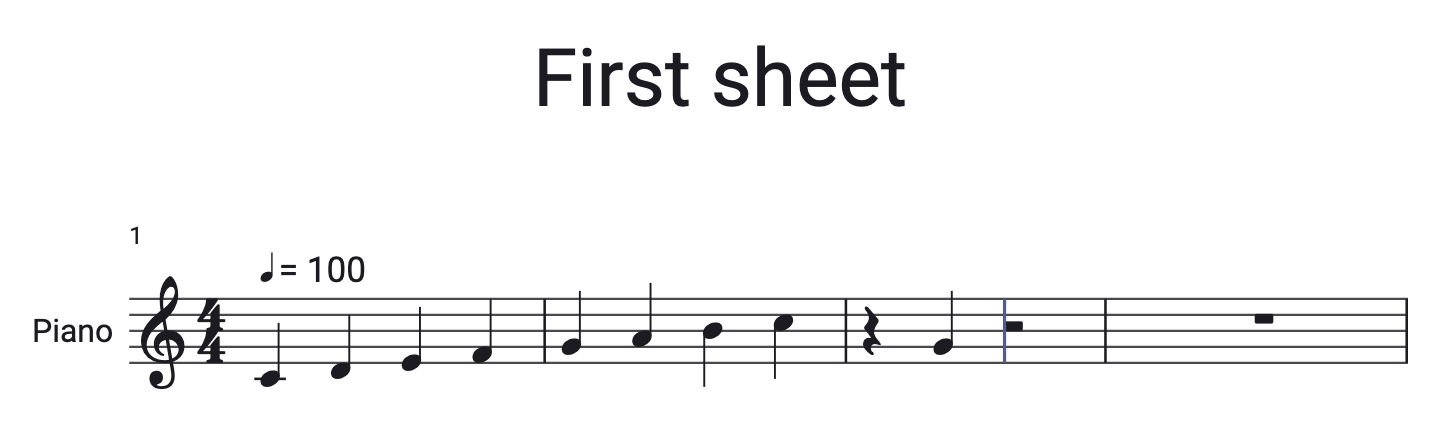
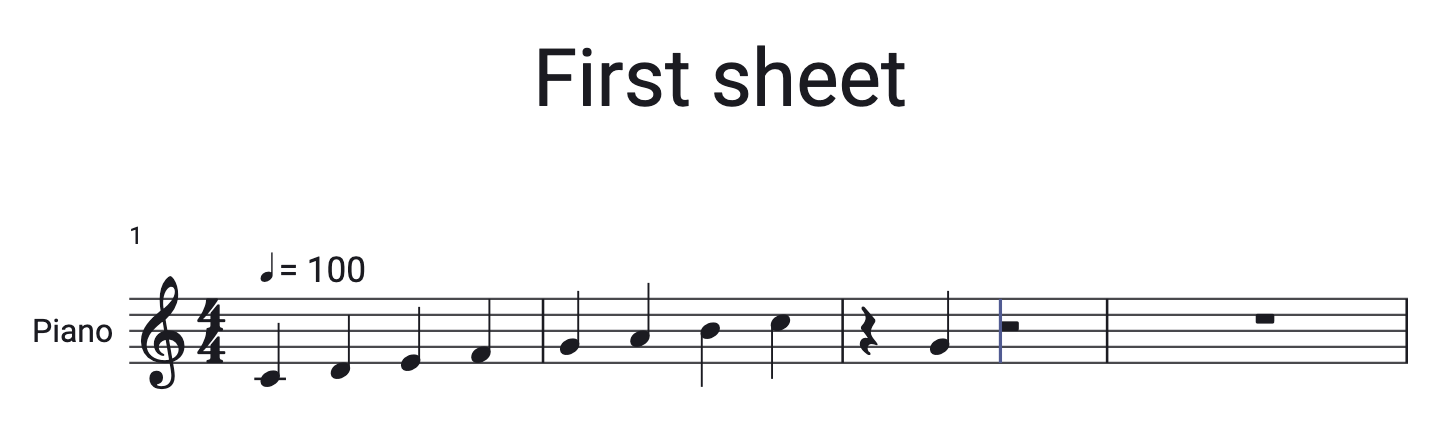
feat(layout): space notes by MuseScore's ratio of 1.5
A note twice as long got 1.41 times the space. Short notes came out
wider and long notes narrower than in MuseScore, and fewer bars fitted
on a line.

SpacingPolicy.ratio now defaults to 1.5, MuseScore's measureSpacing. A
bar of sixteenths is about 3 staff spaces narrower and sits on its
rods, and a half note is 0.3 wider. Most layouts change, and so do the
pictures of the docs that hold a sixteenth or a half rest.

diff --git a/packages/khuur_score_layout/test/hit_test.dart b/packages/khuur_score_layout/test/hit_test.dart
@@ -17,8 +17,7 @@ const EngravingStyle style = EngravingStyle.standard;
 SheetLayout sheetOf(Score score, {double width = 120}) =>
     SheetLayout(score, width: width, text: const FakeMeasurer());
 
-/// The one-staff, one-bar sheet of [one] and [two], wide enough that no two
-/// onsets of a bar come within two spaces of each other.
+/// The one-staff, one-bar sheet of [one] and [two] at the standard style.
 SheetLayout barSheet(List<VoiceItem> one, {List<VoiceItem> two = const []}) =>
     sheetOf(
       scoreOf([
@@ -321,20 +320,31 @@ void main() {
 
     test('a tap inside a triplet of eighths, at an x that is no onset, gives '
         'a time where a sixteenth enters', () {
-      final layout = barSheet([
-        Tuplet(
-          id: const TupletId(50),
-          ratio: TupletRatio.triplet,
-          unit: NoteValue.eighth,
-          members: Seq([
-            chordOf(1, 'E4', value: eighth),
-            chordOf(2, 'E4', value: eighth),
-            chordOf(3, 'E4', value: eighth),
-          ]),
-        ),
-        chordOf(4, 'E4'),
-        chordOf(5, 'E4', value: half),
-      ]);
+      // Spaced wide enough for a tap halfway between two of the triplet's
+      // notes to be more than a staff space from both.
+      final layout = SheetLayout(
+        scoreOf([
+          [
+            staffOf([
+              Tuplet(
+                id: const TupletId(50),
+                ratio: TupletRatio.triplet,
+                unit: NoteValue.eighth,
+                members: Seq([
+                  chordOf(1, 'E4', value: eighth),
+                  chordOf(2, 'E4', value: eighth),
+                  chordOf(3, 'E4', value: eighth),
+                ]),
+              ),
+              chordOf(4, 'E4'),
+              chordOf(5, 'E4', value: half),
+            ]),
+          ],
+        ]),
+        width: 120,
+        text: const FakeMeasurer(),
+        style: const EngravingStyle(spacing: SpacingPolicy(quarterSpace: 4)),
+      );
       final system = layout.systemAt(0);
       final bar = system.bars.single;
       final onsets = voiceTimes(

diff --git a/packages/khuur_score_layout/test/style_test.dart b/packages/khuur_score_layout/test/style_test.dart
@@ -20,7 +20,7 @@ void main() {
     // drops shows as a default.
     final base = EngravingStyle(
       font: renamed,
-      spacing: policyOf(1.5),
+      spacing: policyOf(1.6),
       text: {TextRole.lyric: specOf(3)},
       graceScale: 0.5,
       staffGap: 5,
@@ -122,7 +122,7 @@ void main() {
     );
     final changed = <String, EngravingStyle>{
       'font': EngravingStyle(font: renamed),
-      'spacing': const EngravingStyle(spacing: SpacingPolicy(ratio: 1.5)),
+      'spacing': const EngravingStyle(spacing: SpacingPolicy(ratio: 1.6)),
       'text': const EngravingStyle(
         text: {TextRole.lyric: TextSpec(size: 3)},
       ),
@@ -155,7 +155,7 @@ void main() {
 
     EngravingStyle styleOf(double staffGap) => EngravingStyle(
       font: renamed,
-      spacing: policyOf(1.5),
+      spacing: policyOf(1.6),
       text: {TextRole.lyric: specOf(3)},
       staffGap: staffGap,
       barNumbers: false,
@@ -171,7 +171,7 @@ void main() {
   test('a spacing policy with one field changed is another policy', () {
     const changed = <String, SpacingPolicy>{
       'quarterSpace': SpacingPolicy(quarterSpace: 4),
-      'ratio': SpacingPolicy(ratio: 1.5),
+      'ratio': SpacingPolicy(ratio: 1.6),
       'minGap': SpacingPolicy(minGap: 0.5),
       'barPad': SpacingPolicy(barPad: 2),
       'restRunWidth': SpacingPolicy(restRunWidth: 10),
@@ -180,8 +180,8 @@ void main() {
     for (final MapEntry(key: field, value: policy) in changed.entries) {
       expect(policy, isNot(const SpacingPolicy()), reason: field);
     }
-    final first = policyOf(1.5);
-    final second = policyOf(1.5);
+    final first = policyOf(1.6);
+    final second = policyOf(1.6);
     expect(identical(first, second), isFalse);
     expect(second, first);
     expect(second.hashCode, first.hashCode);

diff --git a/packages/khuur_score_layout/test/breaking_test.dart b/packages/khuur_score_layout/test/breaking_test.dart
@@ -344,7 +344,7 @@ void main() {
 
     test('a wider bar mid-score leaves every earlier system where it was', () {
       final previous = breaksOf(twelve, sheet);
-      final bars = [...twelve]..[7] = barOf(7, 16);
+      final bars = [...twelve]..[7] = barOf(7, 32);
       final resumed = breaksOf(bars, sheet, previous: previous);
 
       expect(startsOf(previous), [0, 3, 6, 9]);

diff --git a/packages/khuur_score_layout/lib/src/style.dart b/packages/khuur_score_layout/lib/src/style.dart
@@ -190,7 +190,7 @@ final class SpacingPolicy {
   /// A policy with the library's default spacing.
   const SpacingPolicy({
     this.quarterSpace = 3.5,
-    this.ratio = 1.41,
+    this.ratio = 1.5,
     this.minGap = 0.4,
     this.barPad = 1,
     this.restRunWidth = 12,

diff --git a/site/src/content/docs/explanation/layout-engine.md b/site/src/content/docs/explanation/layout-engine.md
@@ -52,7 +52,7 @@ A piece that crosses a barline, such as a tie, a slur, a hairpin or a volta, is 
 
 `spacing.dart` spaces a bar with springs and rods. The slices are the distinct moments of the bar, from every onset of every visible staff and voice, every clef change, direction and tempo mark, the start of each hairpin, octave, pedal or tempo line, and the bar's end. Every staff shares the slices, so events at the same moment line up down the system.
 
-The spring after a slice follows the shortest duration `d` that starts there. Its ideal length is `quarterSpace × ratio^log2(d / quarter)`, scaled down when the next slice comes before `d` ends. With the default `SpacingPolicy`, a quarter note gets 3.5 staff spaces, and each doubling of duration multiplies that by 1.41. This is Gourlay's rule on an absolute scale instead of one set per system. A rod is the least distance between two slices, the right reach of one plus `minGap` (0.4) plus the left reach of the next.
+The spring after a slice follows the shortest duration `d` that starts there. Its ideal length is `quarterSpace × ratio^log2(d / quarter)`, scaled down when the next slice comes before `d` ends. With the default `SpacingPolicy`, a quarter note gets 3.5 staff spaces, and each doubling of duration multiplies that by 1.5, as MuseScore does. This is Gourlay's rule on an absolute scale instead of one set per system. A rod is the least distance between two slices, the right reach of one plus `minGap` (0.4) plus the left reach of the next.
 
 Justification solves one stretch factor `s` per system, so that the sum over all slices of `max(rod, ideal × s)` fills the width (`stretchFor`). Rods never stretch, which is why one linear map from natural x to final x cannot replace this solve. The last system stays ragged when it fills less than `justifyLastSystemFrom` (0.75) of the width. With `justify` off, every system keeps its natural width, so a bar added at the end never respaces the bars before it. A system whose rods are wider than the sheet is squeezed either way.
 
